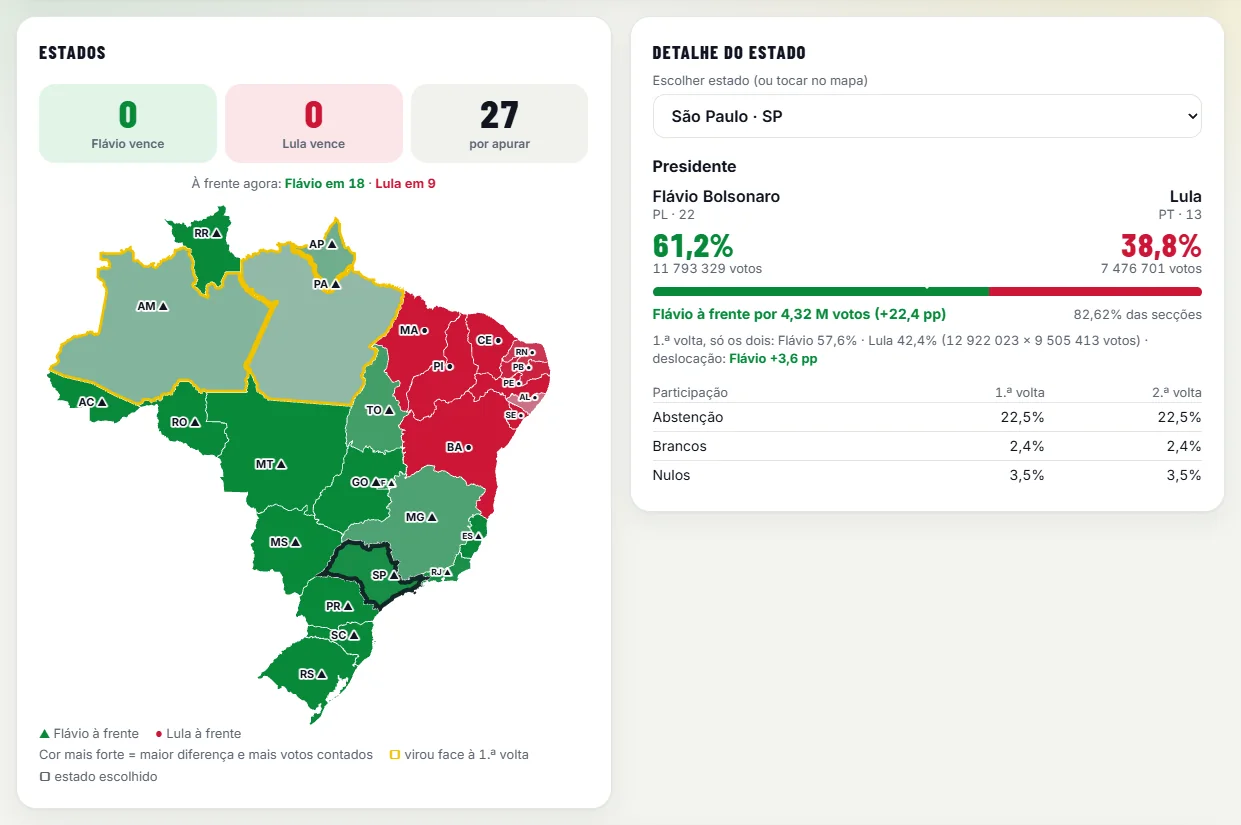
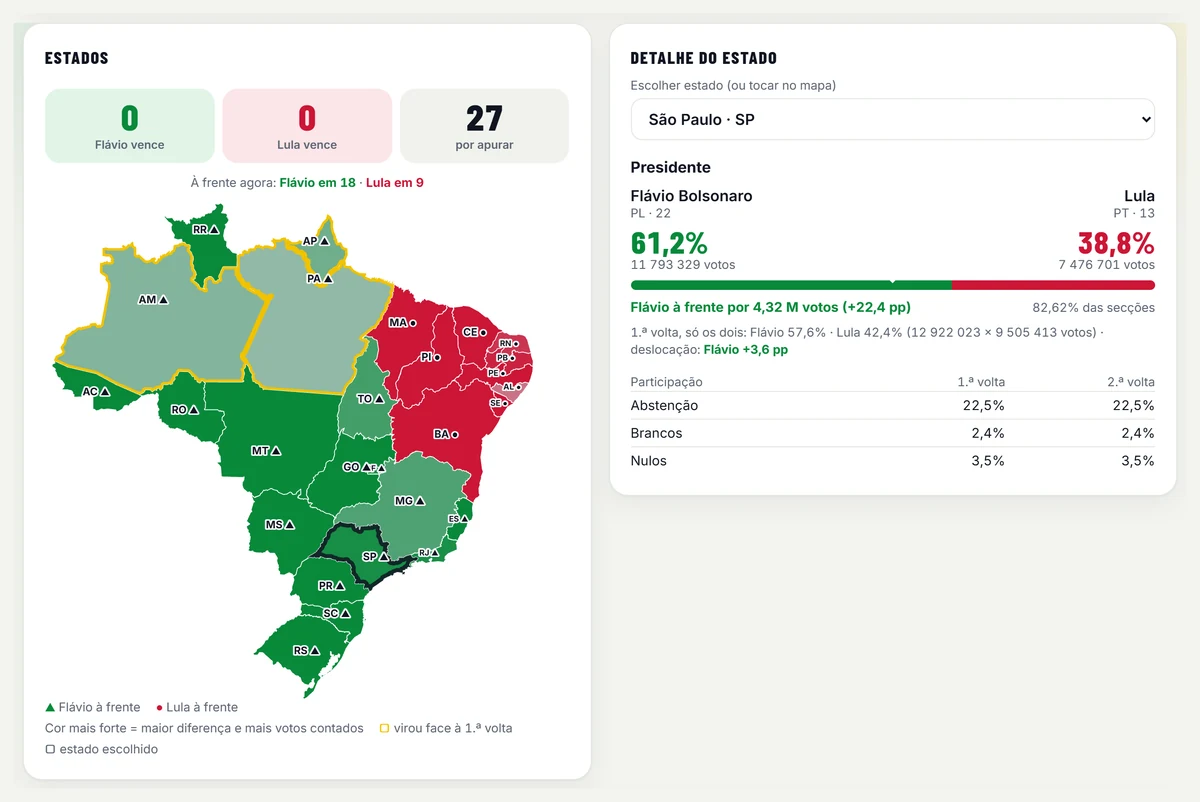
docs: capturas novas, todas no modo claro, enquadradas por cartão e organizadas numa galeria

diff --git a/README.md b/README.md
@@ -16,7 +16,7 @@ mapa, estrangeiro com Portugal no topo e notificações no telemóvel, vistos po
 
 **[Abrir o site](https://varrendo-a-esquerda.tomaspereira.chatgpt.site)** · [Dados abertos](dados-abertos/) · [Como funciona a projeção](#projeção) · [Operação na noite](docs/operacao.md)
 
-<img src="docs/imagens/pc-claro.webp" alt="Página principal no PC: placar Flávio × Lula, projeção e evolução da noite" width="860" />
+<img src="docs/imagens/placar.webp" alt="Placar principal no PC: Flávio Bolsonaro × Lula, com as fotos, as percentagens e as secções apuradas" width="900" />
 
 </div>
 
@@ -38,17 +38,28 @@ mapa, estrangeiro com Portugal no topo e notificações no telemóvel, vistos po
 | **Imagem para partilhar** | Cartão com o resultado, no tema claro ou escuro. |
 | **Arquivo da 1.ª volta** | Resultados finais por estado e por país. |
 
+## No ecrã
+
+<div align="center">
+<img src="docs/imagens/telemovel.webp" alt="No telemóvel: placar, projeção e evolução da noite, mercado de apostas" width="900" />
+<br /><sub>No telemóvel: placar, projeção e evolução da noite, mercado de apostas</sub>
+</div>
+
 <table>
 <tr>
-<td width="34%"><img src="docs/imagens/telemovel-escuro.webp" alt="No telemóvel, modo escuro" /></td>
-<td>
-<img src="docs/imagens/estados.webp" alt="Mapa por estado e detalhe do estado escolhido" />
-<img src="docs/imagens/mercado.webp" alt="Mercado de apostas: probabilidade do Polymarket e gráfico da campanha" />
-</td>
+<td width="50%" valign="top"><img src="docs/imagens/projecao.webp" alt="Projeção do resultado final e evolução da noite" /><br /><sub><b>Projeção</b> com intervalo e probabilidade, e a evolução da noite</sub></td>
+<td width="50%" valign="top"><img src="docs/imagens/mercado.webp" alt="Mercado de apostas: probabilidade do Polymarket e gráfico da campanha" /><br /><sub><b>Mercado de apostas</b> (Polymarket), comparado com a projeção</sub></td>
+</tr>
+<tr>
+<td width="50%" valign="top"><img src="docs/imagens/estados.webp" alt="Mapa por estado e detalhe do estado escolhido" /><br /><sub><b>Mapa</b> e detalhe de cada estado, com a participação</sub></td>
+<td width="50%" valign="top"><img src="docs/imagens/estrangeiro.webp" alt="Voto no estrangeiro por país e cidade, com Portugal no topo" /><br /><sub><b>Estrangeiro</b> por país e cidade, com Portugal no topo</sub></td>
 </tr>
 </table>
 
-<div align="center"><img src="docs/imagens/festejo.webp" alt="Festejo: Flávio Bolsonaro eleito Presidente do Brasil" width="760" /></div>
+<div align="center">
+<img src="docs/imagens/festejo.webp" alt="Festejo: Flávio Bolsonaro eleito Presidente do Brasil" width="760" />
+<br /><sub>O festejo, com o Hino Nacional, quando o TSE declara o Flávio eleito</sub>
+</div>
 
 ## Regras
 
